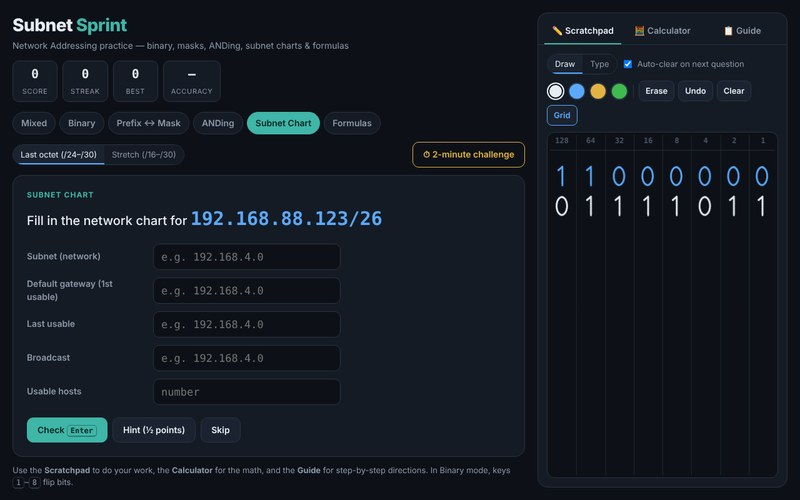
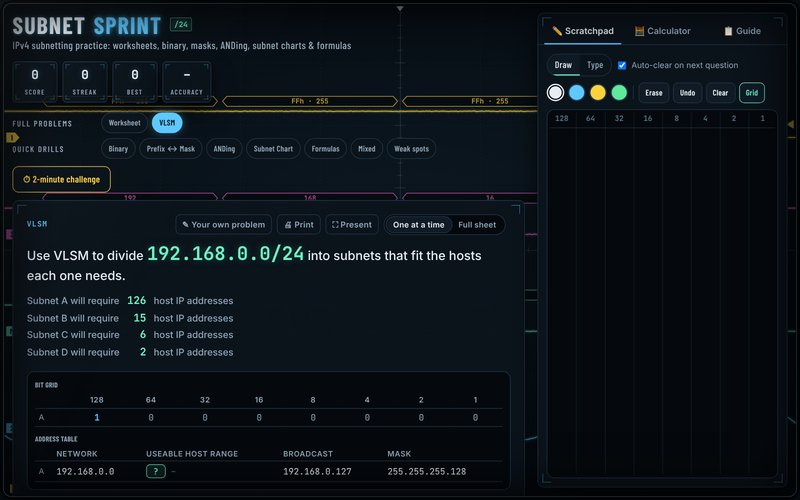
Add No Shutdown and refresh Subnet Sprint in the projects

diff --git a/index.html b/index.html
@@ -197,18 +197,31 @@
     <section id="projects" class="section alt">
       <div class="container">
         <h2>Projects</h2>
-        <p class="section-intro">A networking study tool, plus web applications built during the UT Austin Full Stack Web Development Boot Camp and since updated.</p>
+        <p class="section-intro">Networking study tools, plus web applications built during the UT Austin Full Stack Web Development Boot Camp and since updated.</p>
         <div class="project-grid">
 
           <article class="project-card">
-            <img src="assets/img/projects/subnet-sprint.jpg" alt="Subnet Sprint subnet chart question with the subnet mask and IP address written in binary on the scratchpad" width="800" height="500" loading="lazy">
+            <img src="assets/img/projects/subnet-sprint.jpg" alt="Subnet Sprint VLSM problem with the bit grid and address table filling in, on an oscilloscope-style screen" width="800" height="500" loading="lazy">
             <div class="project-body">
               <h3>Subnet Sprint</h3>
-              <p>An interactive IPv4 subnetting study game: binary conversion, subnet masks, ANDing and full subnet charts, with worked solutions, a timed challenge and a built-in scratchpad, calculator and step-by-step guide.</p>
+              <p>An interactive IPv4 subnetting study game: full subnetting worksheets and VLSM problems, plus quick drills on binary, subnet masks, ANDing and subnet charts. It gives feedback on common mistakes, step-by-step hints and a timed challenge, with a built-in scratchpad and calculator.</p>
               <ul class="tags small"><li>Networking</li><li>Subnetting</li><li>JavaScript</li></ul>
               <div class="project-links">
                 <a href="https://christianjkrantz.github.io/subnet-sprint/" target="_blank" rel="noopener">Live demo</a>
                 <a href="https://github.com/ChristianJKrantz/subnet-sprint" target="_blank" rel="noopener">Code</a>
+              </div>
+            </div>
+          </article>
+
+          <article class="project-card">
+            <img src="assets/img/projects/no-shutdown.jpg" alt="No Shutdown basic router setup task: the goal checklist beside a router console showing an IOS error and a teaching note" width="800" height="500" loading="lazy">
+            <div class="project-body">
+              <h3>No Shutdown</h3>
+              <p>Cisco IOS command practice in the browser: a simulated router, switch and PC with real IOS errors and help. It has drills, ten configuration tasks from first-time setup to SSH and hardening, a sandbox, and the full Packet Tracer Subnetting Scenario lab.</p>
+              <ul class="tags small"><li>Networking</li><li>Cisco IOS</li><li>JavaScript</li></ul>
+              <div class="project-links">
+                <a href="https://christianjkrantz.github.io/no-shutdown/" target="_blank" rel="noopener">Live demo</a>
+                <a href="https://github.com/ChristianJKrantz/no-shutdown" target="_blank" rel="noopener">Code</a>
               </div>
             </div>
           </article>

diff --git a/README.md b/README.md
@@ -18,6 +18,7 @@
 | Project | Description |
 | --- | --- |
 | [Subnet Sprint](https://github.com/ChristianJKrantz/subnet-sprint) | Interactive IPv4 subnetting study game with a built-in scratchpad, calculator and guide |
+| [No Shutdown](https://github.com/ChristianJKrantz/no-shutdown) | Cisco IOS command practice on a simulated router, switch and PC, plus the Packet Tracer Subnetting Scenario lab |
 | [Weather Dashboard](https://github.com/ChristianJKrantz/weather-dashboard) | City weather search with current conditions and a 5-day forecast |
 | [Work Day Scheduler](https://github.com/ChristianJKrantz/Scheduler) | Hour-by-hour daily planner saved in the browser |
 | [Coding Quiz](https://github.com/ChristianJKrantz/coding-quiz) | Timed JavaScript quiz with a high-score board |
